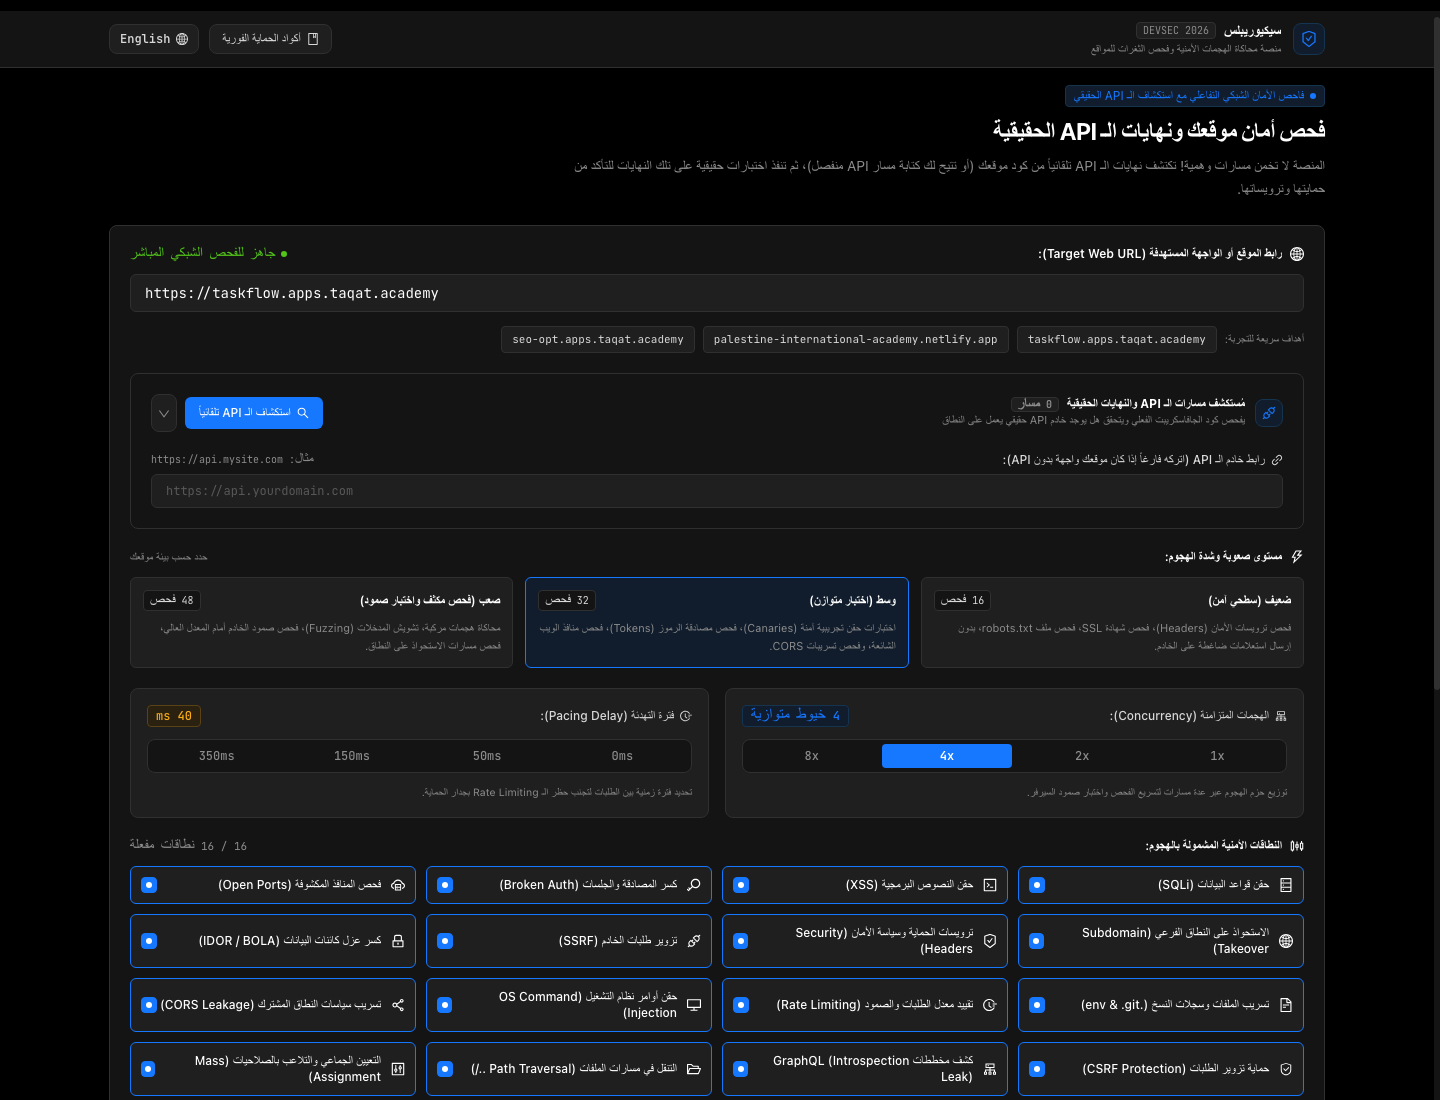
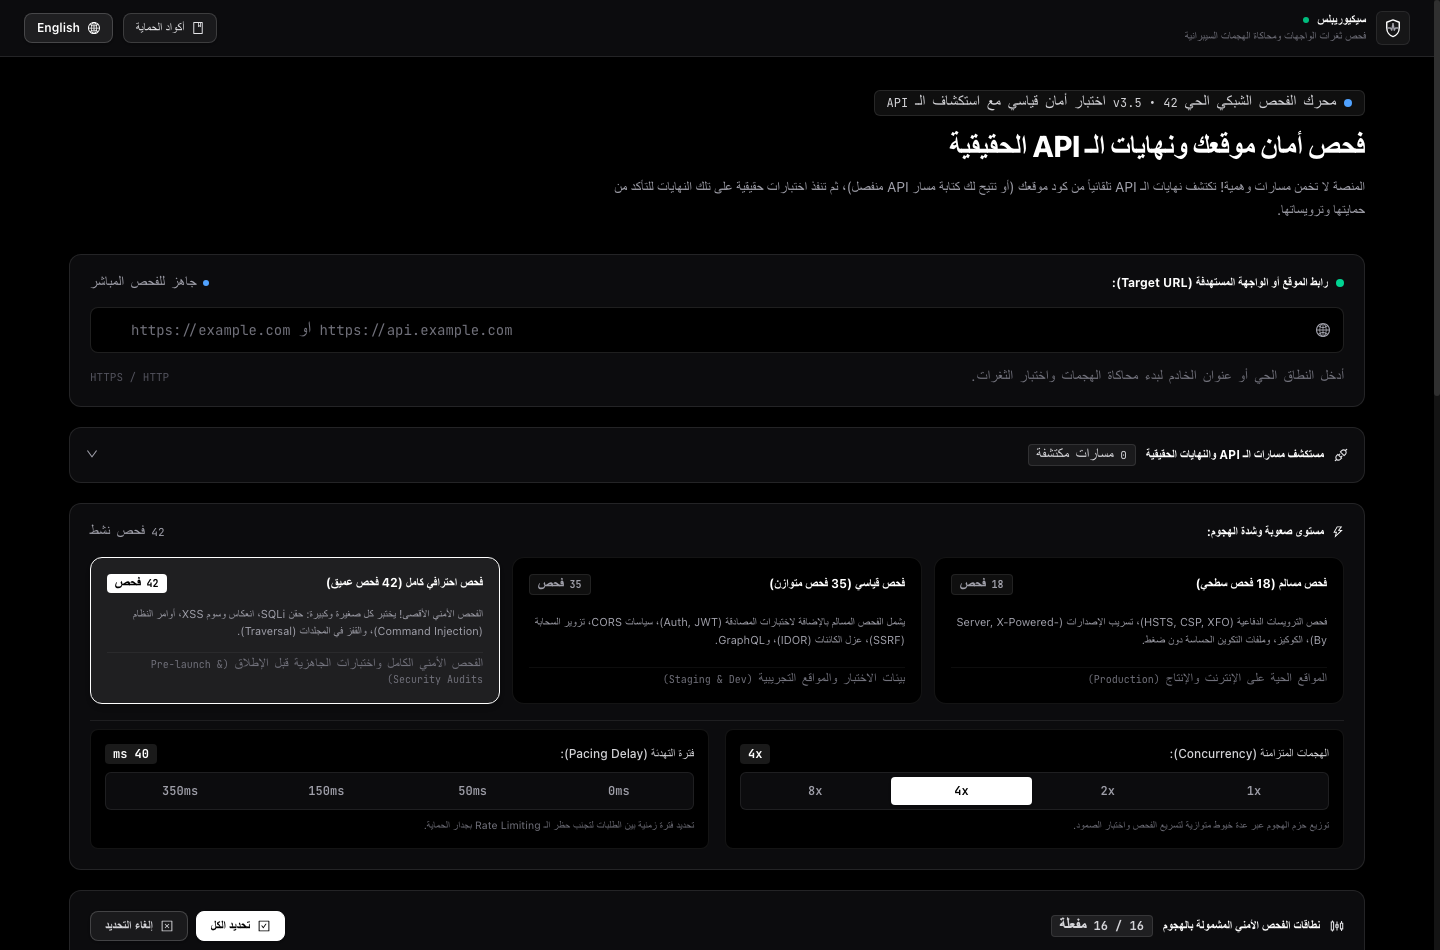
feat(release): official production launch - remove all demo presets and quick links, update screenshots

diff --git a/src/components/TargetConfig.tsx b/src/components/TargetConfig.tsx
@@ -32,7 +32,6 @@ import {
   ControlOutlined,
   FieldTimeOutlined,
 } from '@ant-design/icons';
-import * as DropdownMenu from '@radix-ui/react-dropdown-menu';
 import {
   AttackIntensity,
   DiscoveredEndpoint,
@@ -44,27 +43,6 @@ import EndpointDiscoveryPanel from './EndpointDiscoveryPanel';
 // ============================================================================
 // 2. CONFIGURATION & STYLES (ZONE 2)
 // ============================================================================
-const PRESET_TARGETS = [
-  {
-    nameAr: 'أكاديمية فلسطين الدولية',
-    nameEn: 'Palestine International Academy',
-    url: 'https://palestine-international-academy.netlify.app',
-    category: 'E-Learning Portal',
-  },
-  {
-    nameAr: 'تطبيق تاسك فلو لإدارة المهام',
-    nameEn: 'TaskFlow SaaS Platform',
-    url: 'https://taskflow.apps.taqat.academy',
-    category: 'SaaS Web Application',
-  },
-  {
-    nameAr: 'بوابة تحسين محركات البحث الذكية',
-    nameEn: 'SEO Opt Portal',
-    url: 'https://seo-opt.apps.taqat.academy',
-    category: 'Analytics Dashboard',
-  },
-];
-
 const STYLES = {
   card: 'rounded-xl border border-white/[0.1] bg-[#0c0c0e] p-5 space-y-4 shadow-sm',
   input:
@@ -222,47 +200,10 @@ export default function TargetConfig({
             </span>
           </label>
 
-          {/* Radix Dropdown Menu for Target Presets */}
-          <div className="flex items-center gap-2">
-            <DropdownMenu.Root>
-              <DropdownMenu.Trigger asChild>
-                <button
-                  type="button"
-                  className="flex items-center gap-2 px-3 py-1.5 rounded-lg text-xs font-semibold text-zinc-200 hover:text-white bg-white/[0.08] hover:bg-white/[0.14] border border-white/[0.15] transition-all cursor-pointer select-none active:scale-95 shadow-sm"
-                >
-                  <span>{isArabic ? 'نماذج جاهزة للفحص' : 'Preset Targets'}</span>
-                  <DownOutlined className="text-[10px]" />
-                </button>
-              </DropdownMenu.Trigger>
-
-              <DropdownMenu.Portal>
-                <DropdownMenu.Content
-                  className="z-50 min-w-[300px] rounded-xl bg-[#141416] p-2 shadow-2xl border border-white/[0.15] text-xs text-zinc-300 font-sans"
-                  sideOffset={6}
-                  align="end"
-                >
-                  <div className="px-2.5 py-1.5 text-[10px] font-bold text-zinc-500 uppercase tracking-wider">
-                    {isArabic ? 'أهداف تجريبية موثوقة' : 'Verified Test Targets'}
-                  </div>
-
-                  {PRESET_TARGETS.map((t) => (
-                    <DropdownMenu.Item
-                      key={t.url}
-                      onClick={() => onTargetUrlChange(t.url)}
-                      className="flex flex-col gap-0.5 px-3 py-2 rounded-lg cursor-pointer hover:bg-white/[0.08] hover:text-white outline-none transition-colors"
-                    >
-                      <span className="font-semibold text-white">
-                        {isArabic ? t.nameAr : t.nameEn}
-                      </span>
-                      <span className="text-[11px] text-zinc-400 font-mono truncate" dir="ltr">
-                        {t.url}
-                      </span>
-                    </DropdownMenu.Item>
-                  ))}
-                </DropdownMenu.Content>
-              </DropdownMenu.Portal>
-            </DropdownMenu.Root>
-          </div>
+          <span className="text-[11px] font-mono text-zinc-400 flex items-center gap-1.5">
+            <span className="w-1.5 h-1.5 rounded-full bg-blue-400" />
+            <span>{isArabic ? 'جاهز للفحص المباشر' : 'Live Audit Ready'}</span>
+          </span>
         </div>
 
         {/* URL Input Bar */}
@@ -274,33 +215,20 @@ export default function TargetConfig({
             type="text"
             value={targetUrl}
             onChange={(e) => onTargetUrlChange(e.target.value)}
-            placeholder="https://example.com"
+            placeholder={isArabic ? 'https://example.com أو https://api.example.com' : 'https://yourdomain.com or https://api.yourdomain.com'}
             disabled={isRunning}
             className={`${STYLES.input} ps-10`}
             dir="ltr"
           />
         </div>
 
-        {/* Quick Clickable Preset Pills */}
-        <div className="flex items-center gap-2 flex-wrap pt-0.5">
-          <span className="text-[11px] text-zinc-400 font-medium">
-            {isArabic ? 'أهداف سريعة للتجربة:' : 'Quick targets:'}
+        <div className="flex items-center justify-between text-[11px] text-zinc-500 font-mono">
+          <span>
+            {isArabic
+              ? 'أدخل النطاق الحي أو عنوان الخادم لبدء محاكاة الهجمات واختبار الثغرات.'
+              : 'Enter production domain or API host to execute defensive security probing.'}
           </span>
-          {PRESET_TARGETS.map((p) => (
-            <button
-              key={p.url}
-              type="button"
-              onClick={() => onTargetUrlChange(p.url)}
-              disabled={isRunning}
-              className={`flex items-center gap-1.5 px-3 py-1 rounded-md text-xs font-mono transition-all cursor-pointer select-none active:scale-95 ${
-                targetUrl === p.url
-                  ? 'bg-white text-black font-semibold shadow-sm'
-                  : 'bg-white/[0.05] hover:bg-white/[0.1] text-zinc-300 hover:text-white border border-white/[0.1]'
-              }`}
-            >
-              <span>{p.url.replace('https://', '')}</span>
-            </button>
-          ))}
+          <span className="text-zinc-600">HTTPS / HTTP</span>
         </div>
       </div>
 

diff --git a/src/lib/endpoint-crawler.ts b/src/lib/endpoint-crawler.ts
@@ -148,7 +148,7 @@ export async function crawlAndDiscoverEndpoints(
           if (!scriptRes.ok) return;
           const jsContent = await scriptRes.text();
 
-          // Extract absolute API URLs (e.g. https://taskflow-taqat.apps.taqat.academy/api)
+          // Extract absolute API URLs (e.g. https://api.yourdomain.com/v1)
           const apis = [
             ...jsContent.matchAll(
               /https?:\/\/[a-zA-Z0-9_\-\.]+(?::[0-9]+)?\/api[a-zA-Z0-9_\-\/]*/gi

diff --git a/src/app/page.tsx b/src/app/page.tsx
@@ -31,7 +31,7 @@ import {
 // 2. CONFIGURATION & CONSTANTS (EASY EDIT ZONE)
 // ============================================================================
 const DEFAULT_CONFIG = {
-  initialTargetUrl: 'https://palestine-international-academy.netlify.app',
+  initialTargetUrl: '',
   defaultIntensity: 'rigorous' as AttackIntensity,
   defaultConcurrency: 4,
   defaultDelayMs: 40,
